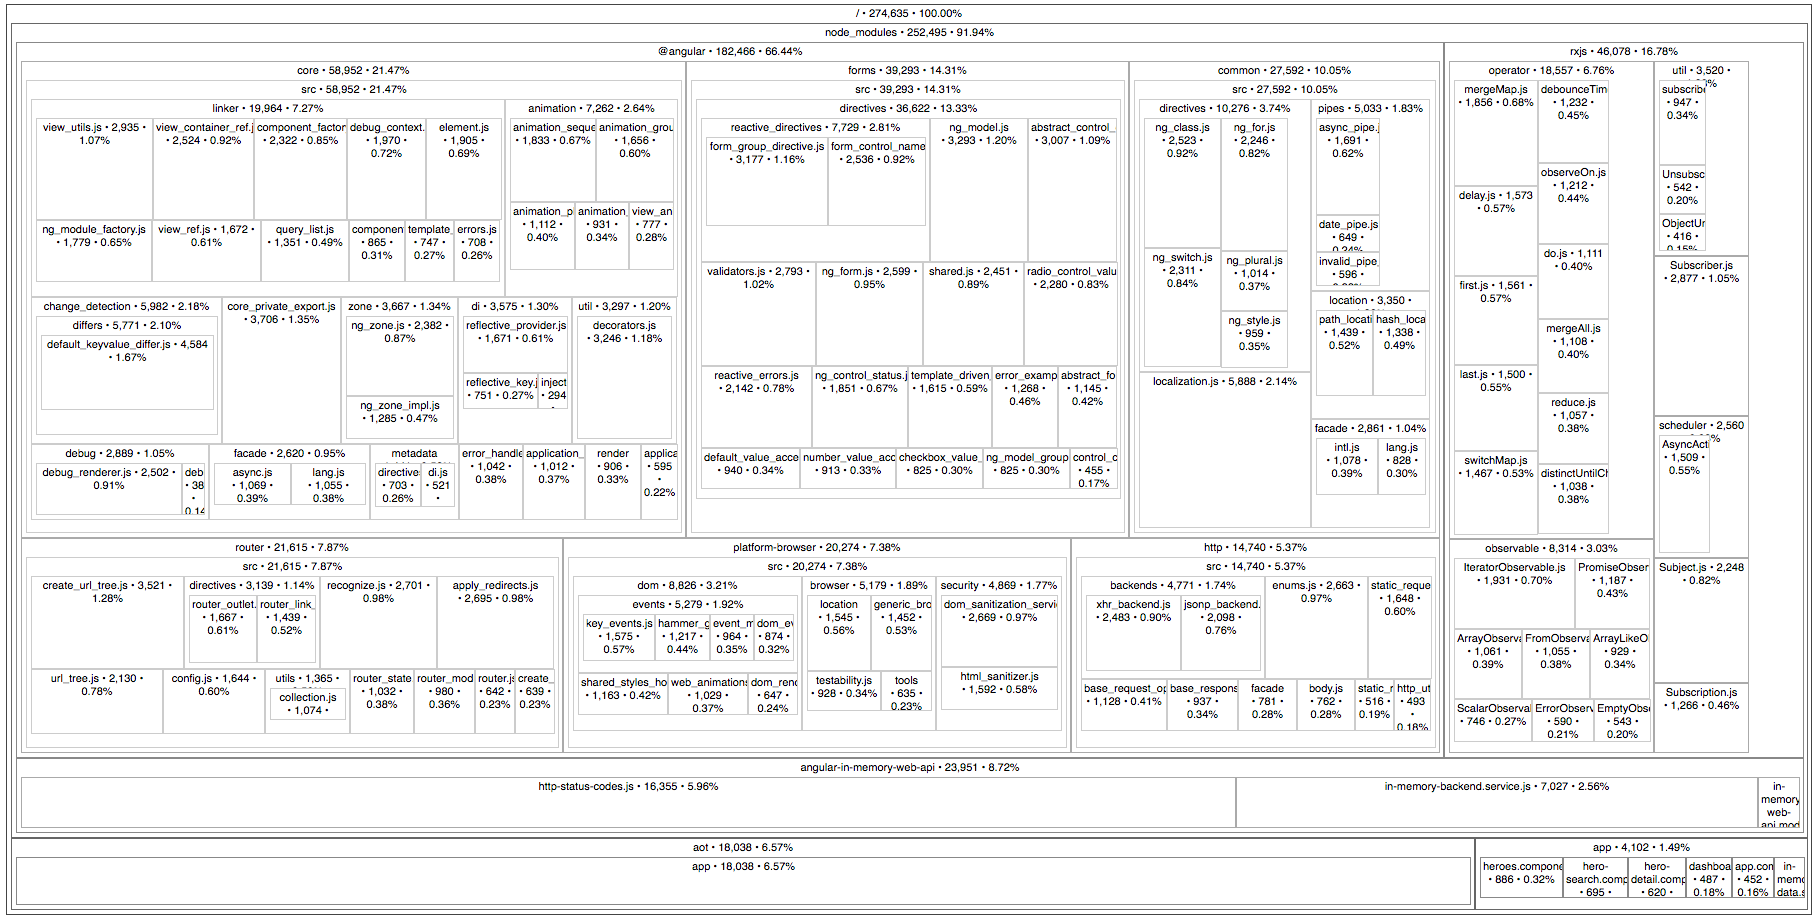
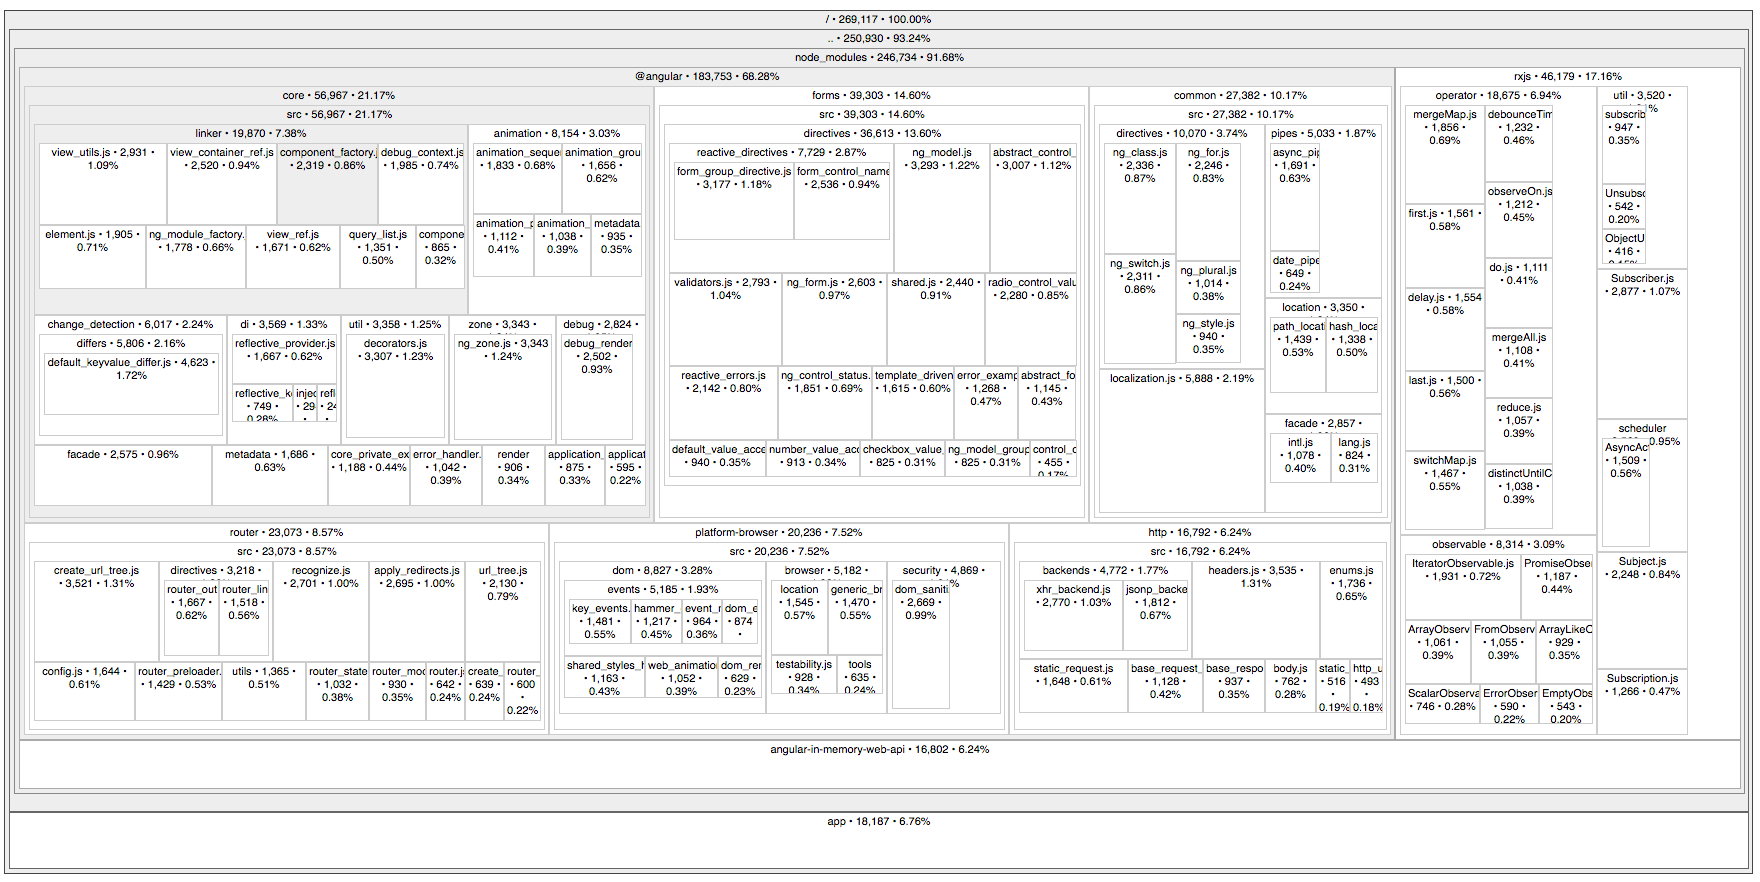
docs(aot-cb):bundle in-mem-web-api with esm and umd
s

s

s

Changed region(s): [[0.0, 0.0, 1.0, 1.0]]

diff --git a/public/docs/_examples/_boilerplate/systemjs.config.plunker.build.js b/public/docs/_examples/_boilerplate/systemjs.config.plunker.build.js
@@ -51,7 +51,7 @@
 
       // other libraries
       'rxjs':                      'npm:rxjs',
-      'angular-in-memory-web-api': 'npm:angular-in-memory-web-api',
+      'angular-in-memory-web-api': 'npm:angular-in-memory-web-api/bundles/in-memory-web-api.umd.js',
       'ts':                        'npm:plugin-typescript@4.0.10/lib/plugin.js',
       'typescript':                'npm:typescript@2.0.2/lib/typescript.js',
 
@@ -63,10 +63,6 @@
         defaultExtension: 'ts'
       },
       rxjs: {
-        defaultExtension: 'js'
-      },
-      'angular-in-memory-web-api': {
-        main: './index.js',
         defaultExtension: 'js'
       }
     }

diff --git a/public/docs/_examples/_boilerplate/systemjs.config.plunker.js b/public/docs/_examples/_boilerplate/systemjs.config.plunker.js
@@ -38,7 +38,7 @@
 
       // other libraries
       'rxjs':                      'npm:rxjs',
-      'angular-in-memory-web-api': 'npm:angular-in-memory-web-api',
+      'angular-in-memory-web-api': 'npm:angular-in-memory-web-api/bundles/in-memory-web-api.umd.js',
       'ts':                        'npm:plugin-typescript@4.0.10/lib/plugin.js',
       'typescript':                'npm:typescript@2.0.2/lib/typescript.js',
 
@@ -50,10 +50,6 @@
         defaultExtension: 'ts'
       },
       rxjs: {
-        defaultExtension: 'js'
-      },
-      'angular-in-memory-web-api': {
-        main: './index.js',
         defaultExtension: 'js'
       }
     }

diff --git a/public/docs/_examples/_boilerplate/systemjs.config.js b/public/docs/_examples/_boilerplate/systemjs.config.js
@@ -26,7 +26,7 @@
 
       // other libraries
       'rxjs':                      'npm:rxjs',
-      'angular-in-memory-web-api': 'npm:angular-in-memory-web-api',
+      'angular-in-memory-web-api': 'npm:angular-in-memory-web-api/bundles/in-memory-web-api.umd.js'
     },
     // packages tells the System loader how to load when no filename and/or no extension
     packages: {
@@ -35,10 +35,6 @@
         defaultExtension: 'js'
       },
       rxjs: {
-        defaultExtension: 'js'
-      },
-      'angular-in-memory-web-api': {
-        main: './index.js',
         defaultExtension: 'js'
       }
     }

diff --git a/public/docs/_examples/toh-6/ts/rollup-config.js b/public/docs/_examples/toh-6/ts/rollup-config.js
@@ -12,13 +12,10 @@ export default {
   sourceMapFile: 'aot/dist/build.js.map',
   format: 'iife',
   plugins: [
-      nodeResolve({jsnext: true, module: true}),
-      commonjs({
-        include: [
-          'node_modules/rxjs/**',
-          'node_modules/angular-in-memory-web-api/**'
-          ],
-      }),
-      uglify()
+    nodeResolve({jsnext: true, module: true}),
+    commonjs({
+      include: ['node_modules/rxjs/**']
+    }),
+    uglify()
   ]
 }

diff --git a/public/docs/_examples/toh-6/ts/app/app.module.ts b/public/docs/_examples/toh-6/ts/app/app.module.ts
@@ -14,7 +14,7 @@ import { AppRoutingModule } from './app-routing.module';
 
 // #enddocregion v1
 // Imports for loading & configuring the in-memory web api
-import { InMemoryWebApiModule } from 'angular-in-memory-web-api/in-memory-web-api.module';
+import { InMemoryWebApiModule } from 'angular-in-memory-web-api';
 import { InMemoryDataService }  from './in-memory-data.service';
 
 // #docregion v1

diff --git a/public/docs/_examples/toh-6/ts/aot/index.html b/public/docs/_examples/toh-6/ts/aot/index.html
@@ -6,6 +6,8 @@
     <title>Angular Tour of Heroes</title>
     <meta name="viewport" content="width=device-width, initial-scale=1">
 
+    <link rel="stylesheet" href="styles.css">
+
     <script src="shim.min.js"></script>
     <script src="zone.min.js"></script>
     <!-- #docregion moduleId -->

diff --git a/public/docs/_examples/toh-6/ts/copy-dist-files.js b/public/docs/_examples/toh-6/ts/copy-dist-files.js
@@ -2,7 +2,8 @@
 var fs = require('fs');
 var resources = [
   'node_modules/core-js/client/shim.min.js',
-  'node_modules/zone.js/dist/zone.min.js'
+  'node_modules/zone.js/dist/zone.min.js',
+  'styles.css'
 ];
 resources.map(function(f) {
   var path = f.split('/');
